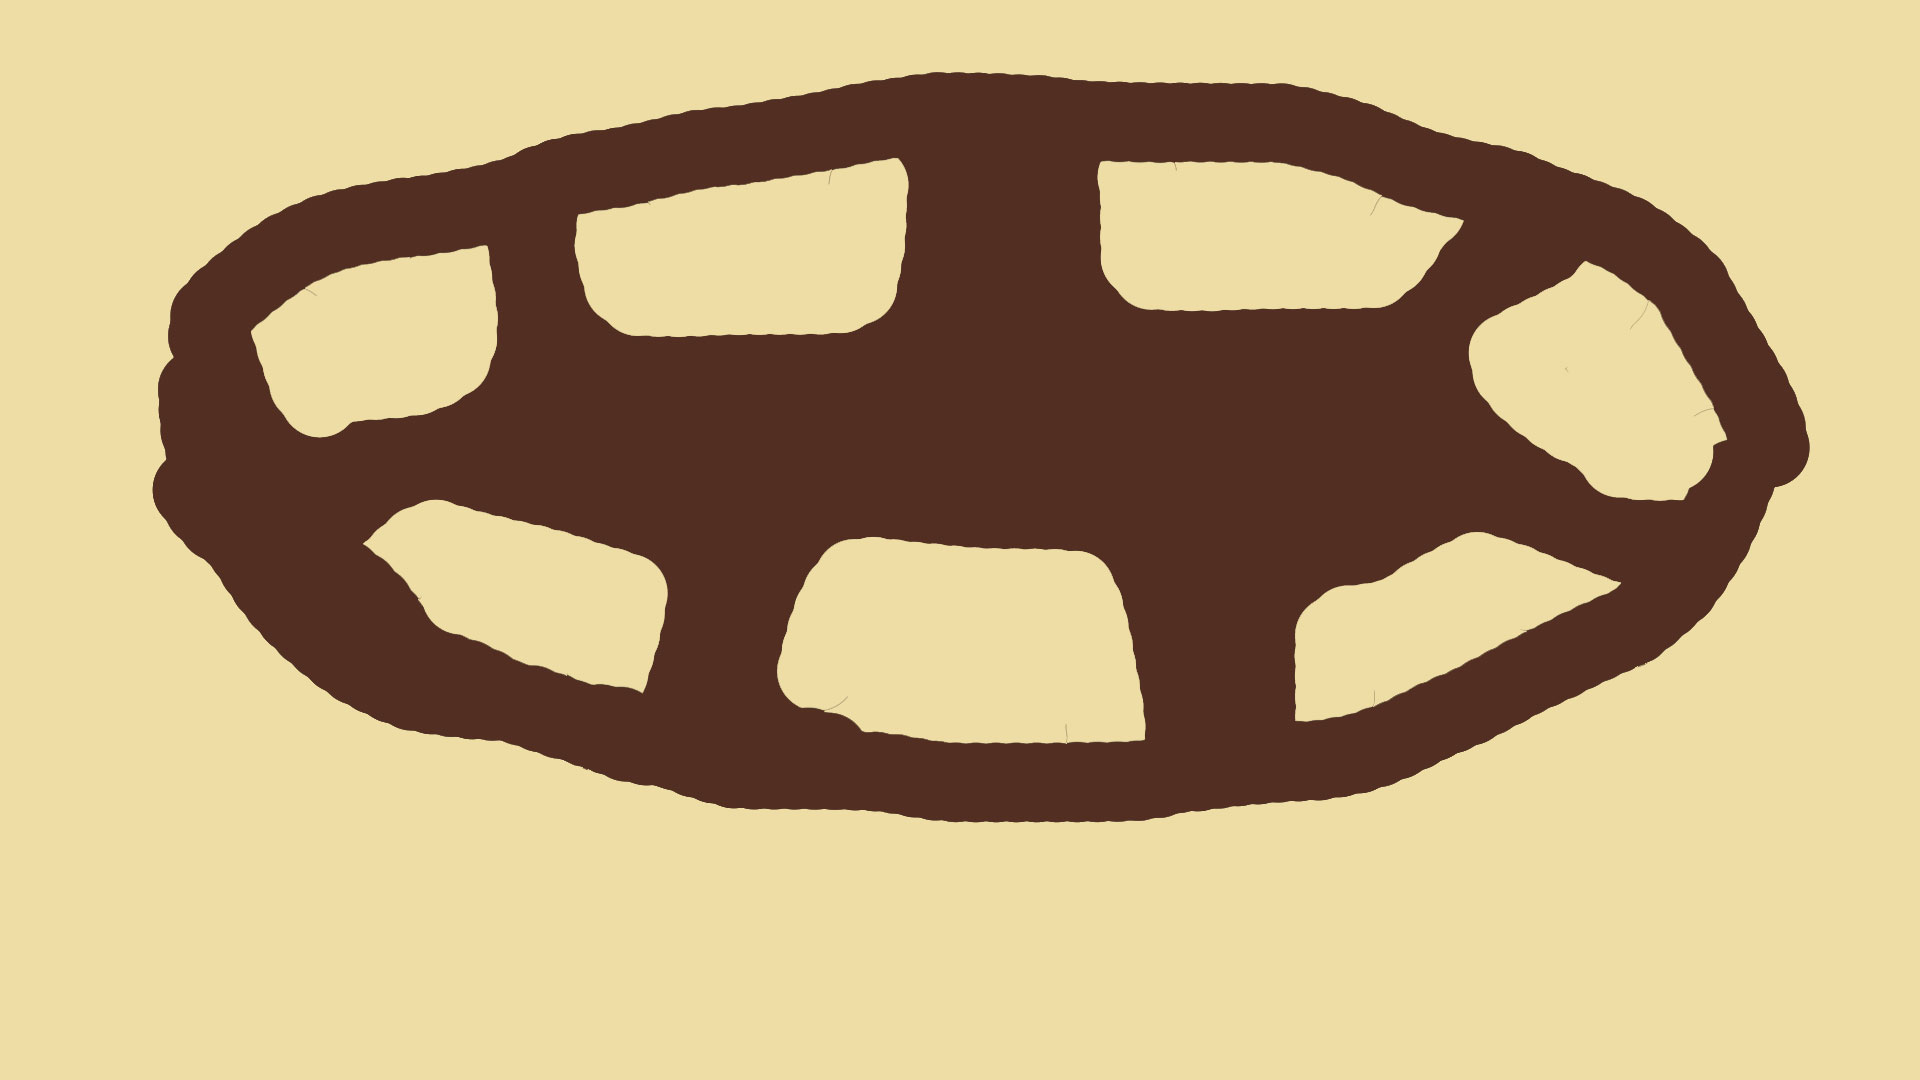
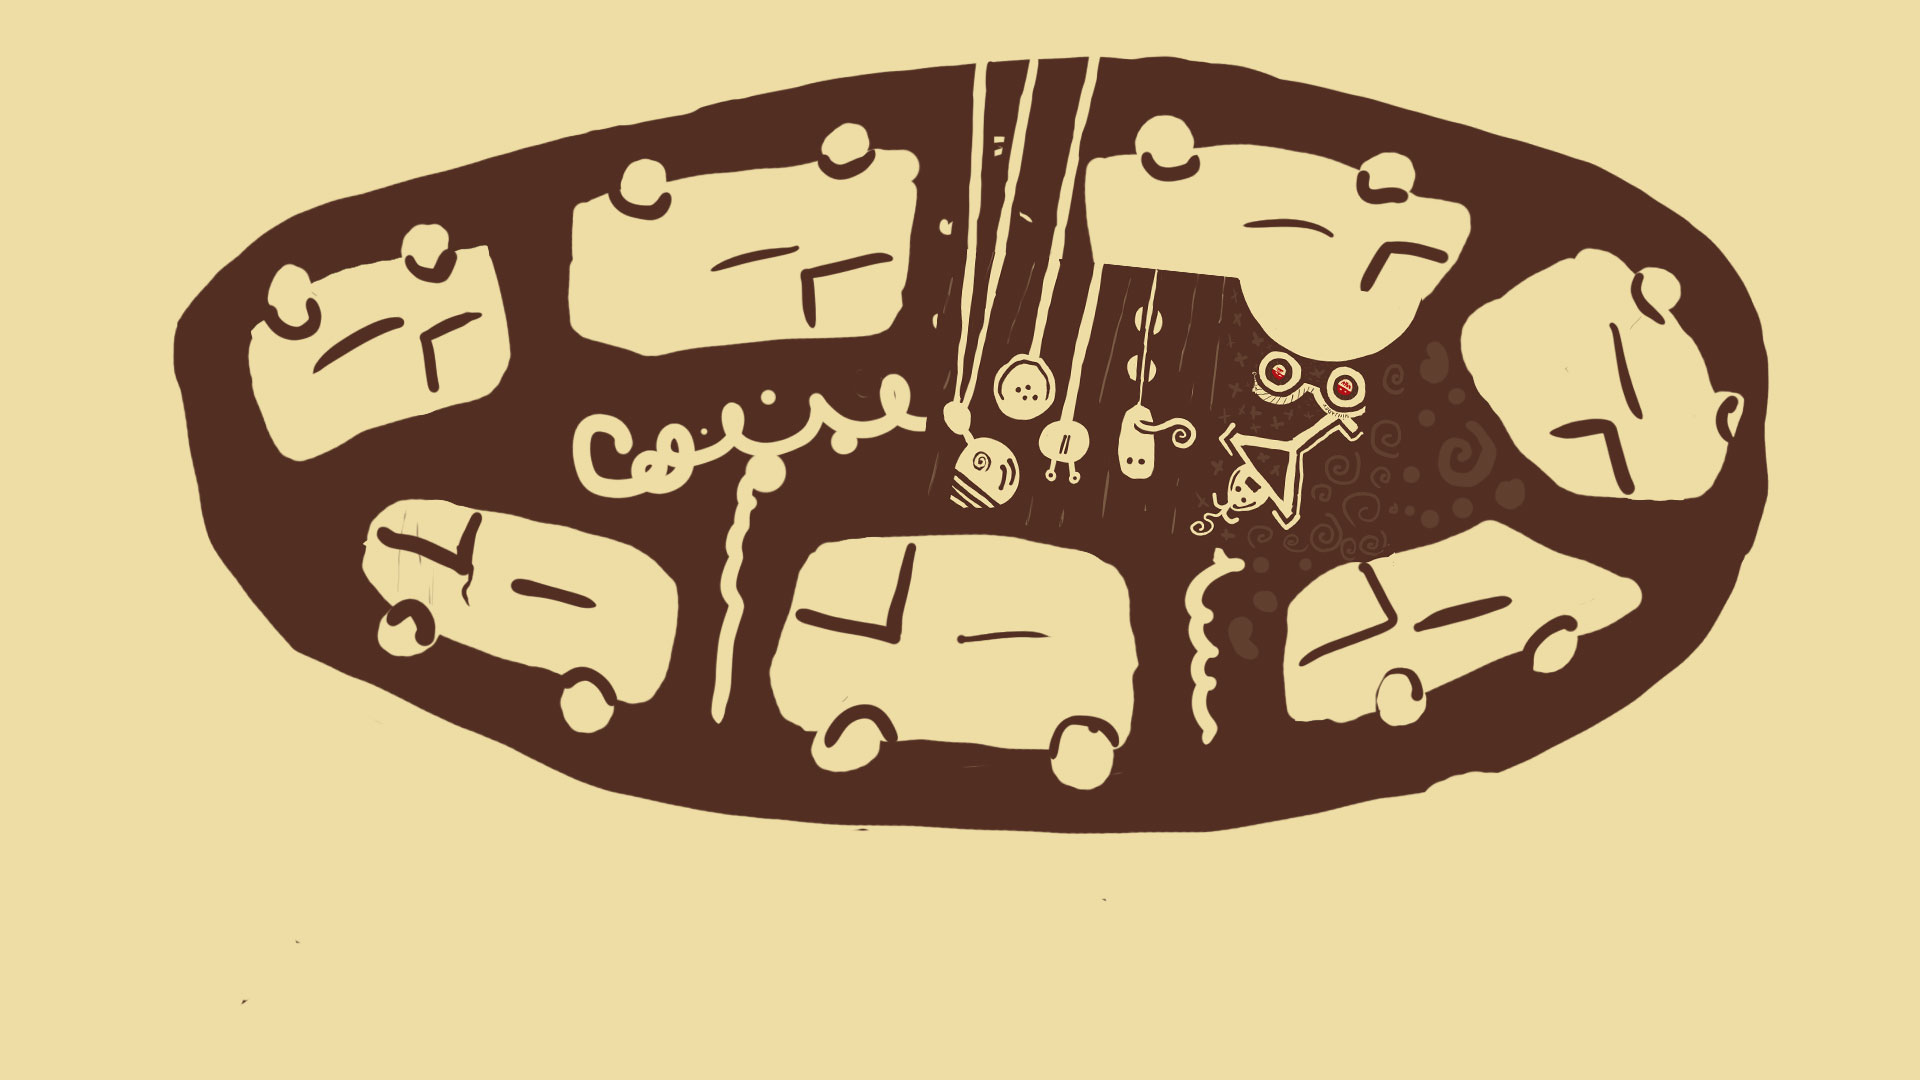
Add more content

diff --git a/src/yo.js b/src/yo.js
@@ -29,7 +29,7 @@
       }, {
         path: 'res/cube.jpg' ,
         x: 1033 - 960,
-        y: 513 - 540 + 40,
+        y: 513 - 540,
         zoom: 4,
         rotation: 29.87 / 360 * Math. PI * 2,
       }, {
@@ -46,6 +46,18 @@
         rotation: 0,
       }, {
         path: 'res/teeth.jpg' ,
+        x: 1169 - 960,
+        y: 406 - 540,
+        zoom: 4,
+        rotation: Math.PI * 2 + -185.93 / 360 * Math.PI * 2,
+      }, {
+        path: 'res/cocktail.jpg' ,
+        x: 412 - 960,
+        y: 681 - 540,
+        zoom: 4,
+        rotation: -21.27 / 360 * Math.PI * 2,
+      }, {
+        path: 'res/snake.jpg',
         x: 0,
         y: 0,
         zoom: 4,
@@ -74,7 +86,7 @@
       this.ctx.translate(1920 / 2, 1080 / 2);
 
       this.ctx.save();
-      const progress = this.frame / 200;
+      const progress = this.frame / 400;
       const t = progress % 1;
       const currentImage = this.images[progress | 0];
       const nextImage = this.images[(progress + 1) | 0];
@@ -84,16 +96,17 @@
 
       const rotation = lerp(0, currentImage.rotation, t);
 
-      this.ctx.translate(-x * zoom, -y * zoom);
       this.ctx.rotate(rotation);
+      this.ctx.translate(-x * zoom, -y * zoom);
       this.ctx.scale(zoom, zoom);
 
 
       this.ctx.drawImage(currentImage.element, -1920 / 2, -1080 / 2);
 
       this.ctx.scale(1 / currentImage.zoom, 1 / currentImage.zoom);
-      this.ctx.rotate(-currentImage.rotation);
       this.ctx.translate(currentImage.x * currentImage.zoom, currentImage.y * currentImage.zoom);
+      this.ctx.rotate(-currentImage.rotation);
+
       this.ctx.drawImage(nextImage.element, -1920 / 2, -1080 / 2);
 
       this.ctx.restore();

diff --git a/src/SceneSwitcherNode.js b/src/SceneSwitcherNode.js
@@ -20,7 +20,7 @@
       if (BEAN < 48 * 4) {
         selectedScene = this.inputs.A;
       } else {
-        selectedScene = this.inputs.B;
+        selectedScene = this.inputs.A;
       }
 
       selectedScene.enabled = true;
